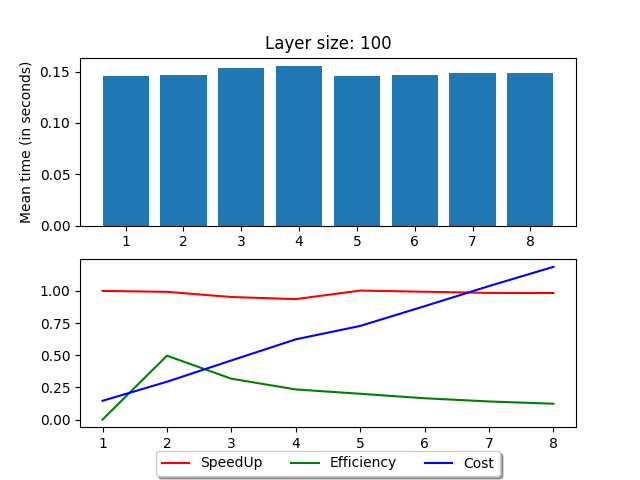
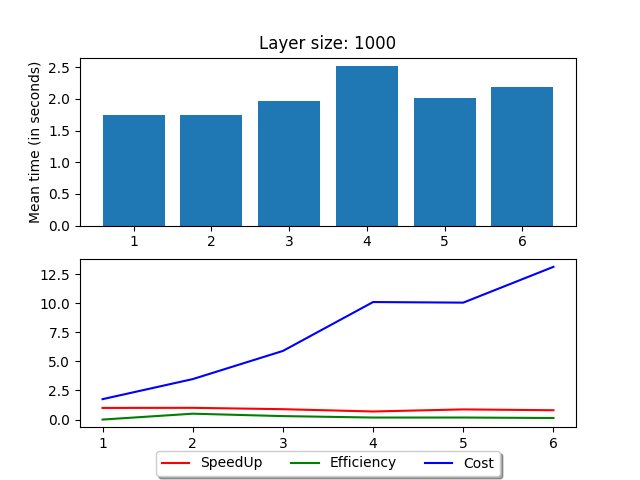
Verify program outputs on Tests script
If the program output is inconsistent between 2 executions (samples) of the program while running the tests,
the Tests script will stop the tests, write the output of the 2 executions on Sample*_out.txt (where * is between
1 and 2) files and show the differences between the 2 files with the diff command.

diff --git a/Src/TestsScript.py b/Src/TestsScript.py
@@ -1,6 +1,7 @@
 import subprocess
 import os
 import re
+import sys
 import csv
 import numpy as np
 import matplotlib.pyplot as plt
@@ -15,7 +16,7 @@ PLOTS_FOLDER = "plots/"
 ENERGY_STORMS_OMP_EXEC = "./energy_storms_omp"
 ENERGY_STORMS_SEQ_EXEC = "./energy_storms_seq"
 
-MAX_THREADS = 8
+MAX_THREADS = os.cpu_count() + 2
 
 class ProgramResultsSample:
     def __init__(self, layer_size, n_threads, test_files, time, results):
@@ -25,14 +26,28 @@ class ProgramResultsSample:
         self.n_threads  = n_threads
         self.test_files = test_files
 
-    def printAll(self):
+    def printAll(self, towrite=sys.stdout):
+        oldstdout = sys.stdout
+        if(towrite != sys.stdout):
+            sys.stdout = open(towrite, 'w')
+
         print("Time: ",         self.time)
         print("Layer size: ",   self.layer_size)
         print("Threads: ",      self.n_threads)
-        print("Test files:\n",  self.test_files)
-        print("Results:\n",     self.results)
+        print("Test files:\n")
+        for t in self.test_files:
+            print(t)
+        print("Results:\n")
+        for r in self.results:
+            print(r[0], r[1])
+
+        if(sys.stdout != oldstdout):
+            sys.stdout.close()
+            sys.stdout = oldstdout
 
     def compareResults(self, other):
+        if self.layer_size != other.layer_size:
+            return False
         for i, r in enumerate(self.results):
             if r[1] != other.results[i][1]:
                 return False
@@ -110,11 +125,18 @@ def start_energy_storms_program(layer_size, test_files, n_threads = 1):
 
     #FUNCTION START
 
-    proc = subprocess.run([ENERGY_STORMS_OMP_EXEC, "-c", CSV_FILENAME, 
-                    "-t", str(n_threads), str(layer_size)] + test_files)
+    proc = None
+
+    if(n_threads == 1):
+        proc = subprocess.run([ENERGY_STORMS_SEQ_EXEC, "-c", CSV_FILENAME, 
+                        str(layer_size)] + test_files)
+    else:
+        proc = subprocess.run([ENERGY_STORMS_OMP_EXEC, "-c", CSV_FILENAME, 
+                        "-t", str(n_threads), str(layer_size)] + test_files)
 
     if proc.returncode != 0:
-        print("Error while executing program! Aborting script...")
+        print("\033[0;31mError while executing program! Aborting script...")
+        os.remove(CSV_FILENAME)
         exit(1)
 
 
@@ -129,11 +151,9 @@ def plot_results_nthreads_time(plot_name, samples, layer_size):
 
     figure, (timesPlt, otherstatsPlt) = plt.subplots(2)
 
-    # ax = times.figure().gca()
-    # ax.xaxis.set_major_locator(MaxNLocator(integer=True))
+    timesPlt.xaxis.set_major_locator(MaxNLocator(integer=True))
 
-    # ax = otherstats.figure().gca()
-    # ax.xaxis.set_major_locator(MaxNLocator(integer=True))
+    otherstatsPlt.xaxis.set_major_locator(MaxNLocator(integer=True))
 
     stats = SamplesStats(samples)
 
@@ -160,27 +180,35 @@ def plot_results_nthreads_time(plot_name, samples, layer_size):
     plt.close()
 
 def run_tests(layer_size, test_files, n_runs = 2):
+
     samples = []
 
     for t in range (1, MAX_THREADS + 1):
-        for _ in range(n_runs):
-            samples.append(start_energy_storms_program(layer_size, test_files, n_threads=t))
-
+        print(t, "thread(s)")
+        for r in range(n_runs):
+            print( r + 1, "\r", end = '')
+            s = start_energy_storms_program(layer_size, test_files, n_threads=t)
+            if(samples != [] and not s.compareResults(samples[len(samples) - 1])):
+                print("\033[0;31mOutput mismatch! Differences:\033[0m")
+                samples[len(samples) - 1].printAll("Sample1.txt")
+                s.printAll("Sample2.txt")
+                subprocess.run(["diff", "Sample1_out.txt", "Sample2_out.txt"])
+                os.remove(CSV_FILENAME)
+                print("\033[0;31mAborting script...")
+                exit(1)
+            samples.append(s)
     return samples
 
 #################MAIN##################
 
 all_test_files = get_test_files()
 
-layer_size = 100
+layer_size = 1000
 
-samples = run_tests(layer_size, all_test_files, n_runs = 10)
+samples = run_tests(layer_size, all_test_files, n_runs = 5)
 
 plot_results_nthreads_time("plot_init_arrays_speedup", samples, layer_size)
 
+print("\033[0;32mTest complete!")
+
 os.remove(CSV_FILENAME)
-
-
-
-
-

diff --git a/Src/energy_storms.c b/Src/energy_storms.c
@@ -18,6 +18,9 @@
 #include<stdlib.h>
 #include<math.h>
 #include<sys/time.h>
+#include<getopt.h>
+
+typedef enum { FALSE, TRUE } boolean;
 
 /* Function to get wall time */
 double cp_Wtime(){
@@ -132,25 +135,55 @@ Storm read_storm_file( char *fname ) {
     return storm;
 }
 
+boolean csv = FALSE;
+
+short processOptions(int argc, char *argv[])
+{
+	short optargc = 0;
+    char c;
+    while((c = getopt(argc, argv, "c:t:")) != -1)
+    {
+        switch(c)
+        {
+            case 'c': case 'C': 
+				csv = TRUE; 
+				if(optarg != NULL)
+				{
+					freopen(optarg, "w", stdout);
+					optargc++;
+				}
+				break;
+        }
+		optargc++;
+    }
+	return optargc;
+}
+
+
 /*
  * MAIN PROGRAM
  */
 int main(int argc, char *argv[]) {
     int i,j,k;
 
+    short optargc = processOptions(argc, argv);
+
     /* 1.1. Read arguments */
-    if (argc<3) {
-        fprintf(stderr,"Usage: %s <size> <storm_1_file> [ <storm_i_file> ] ... \n", argv[0] );
-        exit( EXIT_FAILURE );
-    }
+    if (argc - optargc < 3)
+	{
+		fprintf(stderr,
+				"Usage: %s <options> <size> <storm_1_file> [ <storm_i_file> ] ... \n",
+				argv[0]);
+		exit(EXIT_FAILURE);
+	}
 
-    int layer_size = atoi( argv[1] );
-    int num_storms = argc-2;
-    Storm storms[ num_storms ];
+	int layer_size = atoi(argv[optargc + 1]);
+	int num_storms = argc - optargc - 2;
+	Storm storms[num_storms];
 
-    /* 1.2. Read storms information */
-    for( i=2; i<argc; i++ ) 
-        storms[i-2] = read_storm_file( argv[i] );
+	/* 1.2. Read storms information */
+	for (i = 2 + optargc; i < argc; i++)
+		storms[i - (2 + optargc)] = read_storm_file(argv[i]);
 
     /* 1.3. Intialize maximum levels to zero */
     float maximum[ num_storms ];
@@ -227,13 +260,17 @@ int main(int argc, char *argv[]) {
 
     /* 7. Results output, used by the Tablon online judge software */
     printf("\n");
-    /* 7.1. Total computation time */
-    printf("Time: %lf\n", ttotal );
-    /* 7.2. Print the maximum levels */
-    printf("Result:");
-    for (i=0; i<num_storms; i++)
-        printf(" %d %f", positions[i], maximum[i] );
-    printf("\n");
+
+    char *separator = csv ? "," : " ";
+	/* 7.1. Total computation time */
+	printf("Time:%s", separator);
+	printf("%lf\n", ttotal);
+	/* 7.2. Print the maximum levels */
+	printf("Results:\n");
+
+	for (i = 0; i < num_storms; i++)
+		printf("%d%s%f\n", positions[i], separator,  maximum[i]);
+	printf("\n");
 
     /* 8. Free resources */    
     for( i=0; i<argc-2; i++ )

diff --git a/Src/energy_storms_omp.c b/Src/energy_storms_omp.c
@@ -20,7 +20,7 @@
 #include<math.h>
 #include<sys/time.h>
 #include<omp.h>
-#include<omp.h>
+#include<getopt.h>
 
 #define DEFAULT_COLOR   "\033[0m"
 #define RED             "\033[0;31m"
@@ -267,7 +267,10 @@ int main(int argc, char *argv[]) {
         fprintf(stderr,"Error: Allocating the layer memory\n");
         exit( EXIT_FAILURE );
     }
+
+    #ifdef BENCHMARK_LAYER_INIT
     double initial = cp_Wtime();
+    #endif
 
     #pragma omp parallel for
     for(int kk = 0; kk<layer_size; kk++ ) 
@@ -275,10 +278,21 @@ int main(int argc, char *argv[]) {
         layer[kk] = 0.0f;
         layer_copy[kk] = 0.0f;
     }
-    
+
+    #ifdef BENCHMARK_LAYER_INIT
     double final = cp_Wtime();
 
     double result = final - initial;
+
+    char *sep = csv ? "," : " ";
+	/* 7.1. Total computation time */
+	printfColor(BLUE, "Time:%s", sep)
+	printf("%lf\n", result);
+
+    exit(0);
+
+    #endif
+    
 
     /* 4. Storms simulation */
     for( i=0; i<num_storms; i++) {
